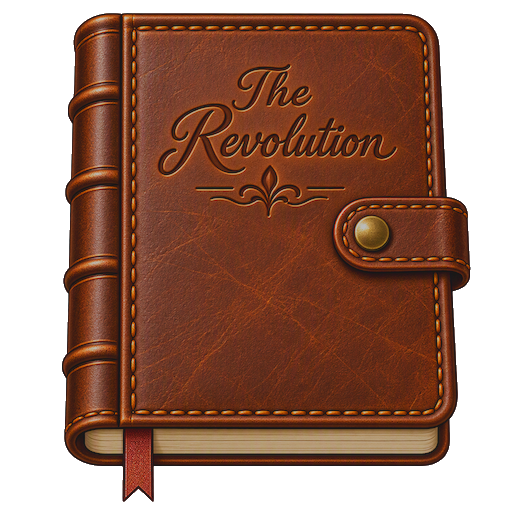
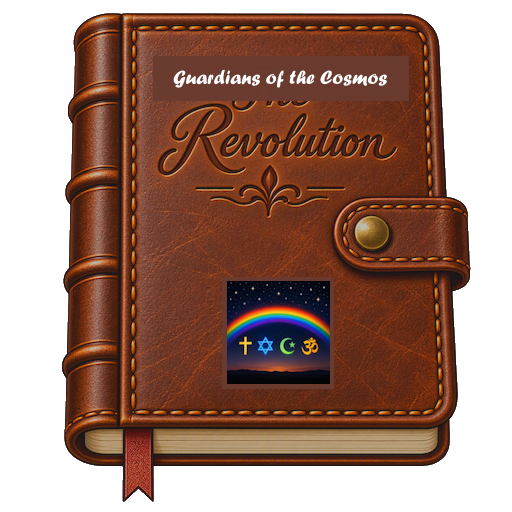
Changes to build the revolution.  I broke something in the query button and I'm not sure what.

Changed region(s): [[0.4375, 0.5312, 0.6562, 0.75], [0.2812, 0.0938, 0.8125, 0.2188]]

diff --git a/coronaproject/my_app.hpp b/coronaproject/my_app.hpp
@@ -27,8 +27,7 @@ namespace corona
 	don't forget to set the default directory
 	*****************************/
 
-    const bool use_project_for_config = true;
-    const bool always_overwrite_app_data = true;
+    const bool developer_mode = true;
 
 	std::string config_filename = "sys_config.json";
 
@@ -74,7 +73,7 @@ namespace corona
 			std::filesystem::create_directories(destination);
            	std::filesystem::copy(source, destination, std::filesystem::copy_options::overwrite_existing | std::filesystem::copy_options::recursive);			
 		}
-		else if (always_overwrite_app_data || std::filesystem::last_write_time(source) > std::filesystem::last_write_time(destination)) 
+		else if (developer_mode || std::filesystem::last_write_time(source) > std::filesystem::last_write_time(destination)) 
 		{
 			std::filesystem::copy(source, destination, std::filesystem::copy_options::overwrite_existing | std::filesystem::copy_options::recursive);
 		}
@@ -95,11 +94,6 @@ namespace corona
 
 		local_config_path += "\\configuration\\";
         local_asset_path += "\\assets\\";
-
-		if constexpr (use_project_for_config) {
-			local_config_path = "D:\\countrybit\\coronaproject\\configuration\\";
-			local_asset_path = "D:\\countrybit\\coronaproject\\assets\\";
-		}
 
 		std::string database_path;
 

diff --git a/corona/corona-database-engine.hpp b/corona/corona-database-engine.hpp
@@ -3234,11 +3234,14 @@ private:
 						return jp.create_object();
 					}
 
+                    std::filesystem::path pages_path(this->config_path + "pages");
+                    std::filesystem::create_directory(pages_path);
+
 					for (int i = 0; i < pages.size(); i++)
 					{
 						json page = pages.get_element(i);
 						std::string page_name = page["page_name"].as_string();
-						std::string filename = "pages\\" + page_name + ".json";
+						std::string filename = pages_path.string() + page_name + ".json";
 
 						json page_import = jp.create_object();
 						page_import.put_member_string("class_name", "import");

diff --git a/corona/corona-presentation-controls-dx-container.hpp b/corona/corona-presentation-controls-dx-container.hpp
@@ -477,14 +477,14 @@ namespace corona
 		{
 			auto nav = navigation_stack.back();
 			navigate(_batch_id, nav);
-			log_warning("Navigate back -> " + nav->name);
+			log_warning("Navigate back -> " + (nav ? nav->name : "empty"));
 		}
 
 		virtual void navigate_forward(int _batch_id)
 		{
 			auto nav = navigation_stack.forward();
 			navigate(_batch_id, nav);
-			log_warning("Navigate forward -> " + nav->name);
+			log_warning("Navigate forward -> " + (nav ? nav->name : "empty"));
 		}
 
 		virtual void loaded(int _batch_id) override

diff --git a/corona/corona-comm-bus-commands.hpp b/corona/corona-comm-bus-commands.hpp
@@ -2162,7 +2162,7 @@ namespace corona
 	public:
 		std::string			table_name = "";
         std::string         detail_frame = "";
-		std::string			query_defaults_field = "common";
+		std::string			query_defaults_field = "";
 		json				query_defaults;
 		json				query_body;
 		corona_instance instance = corona_instance::local;
